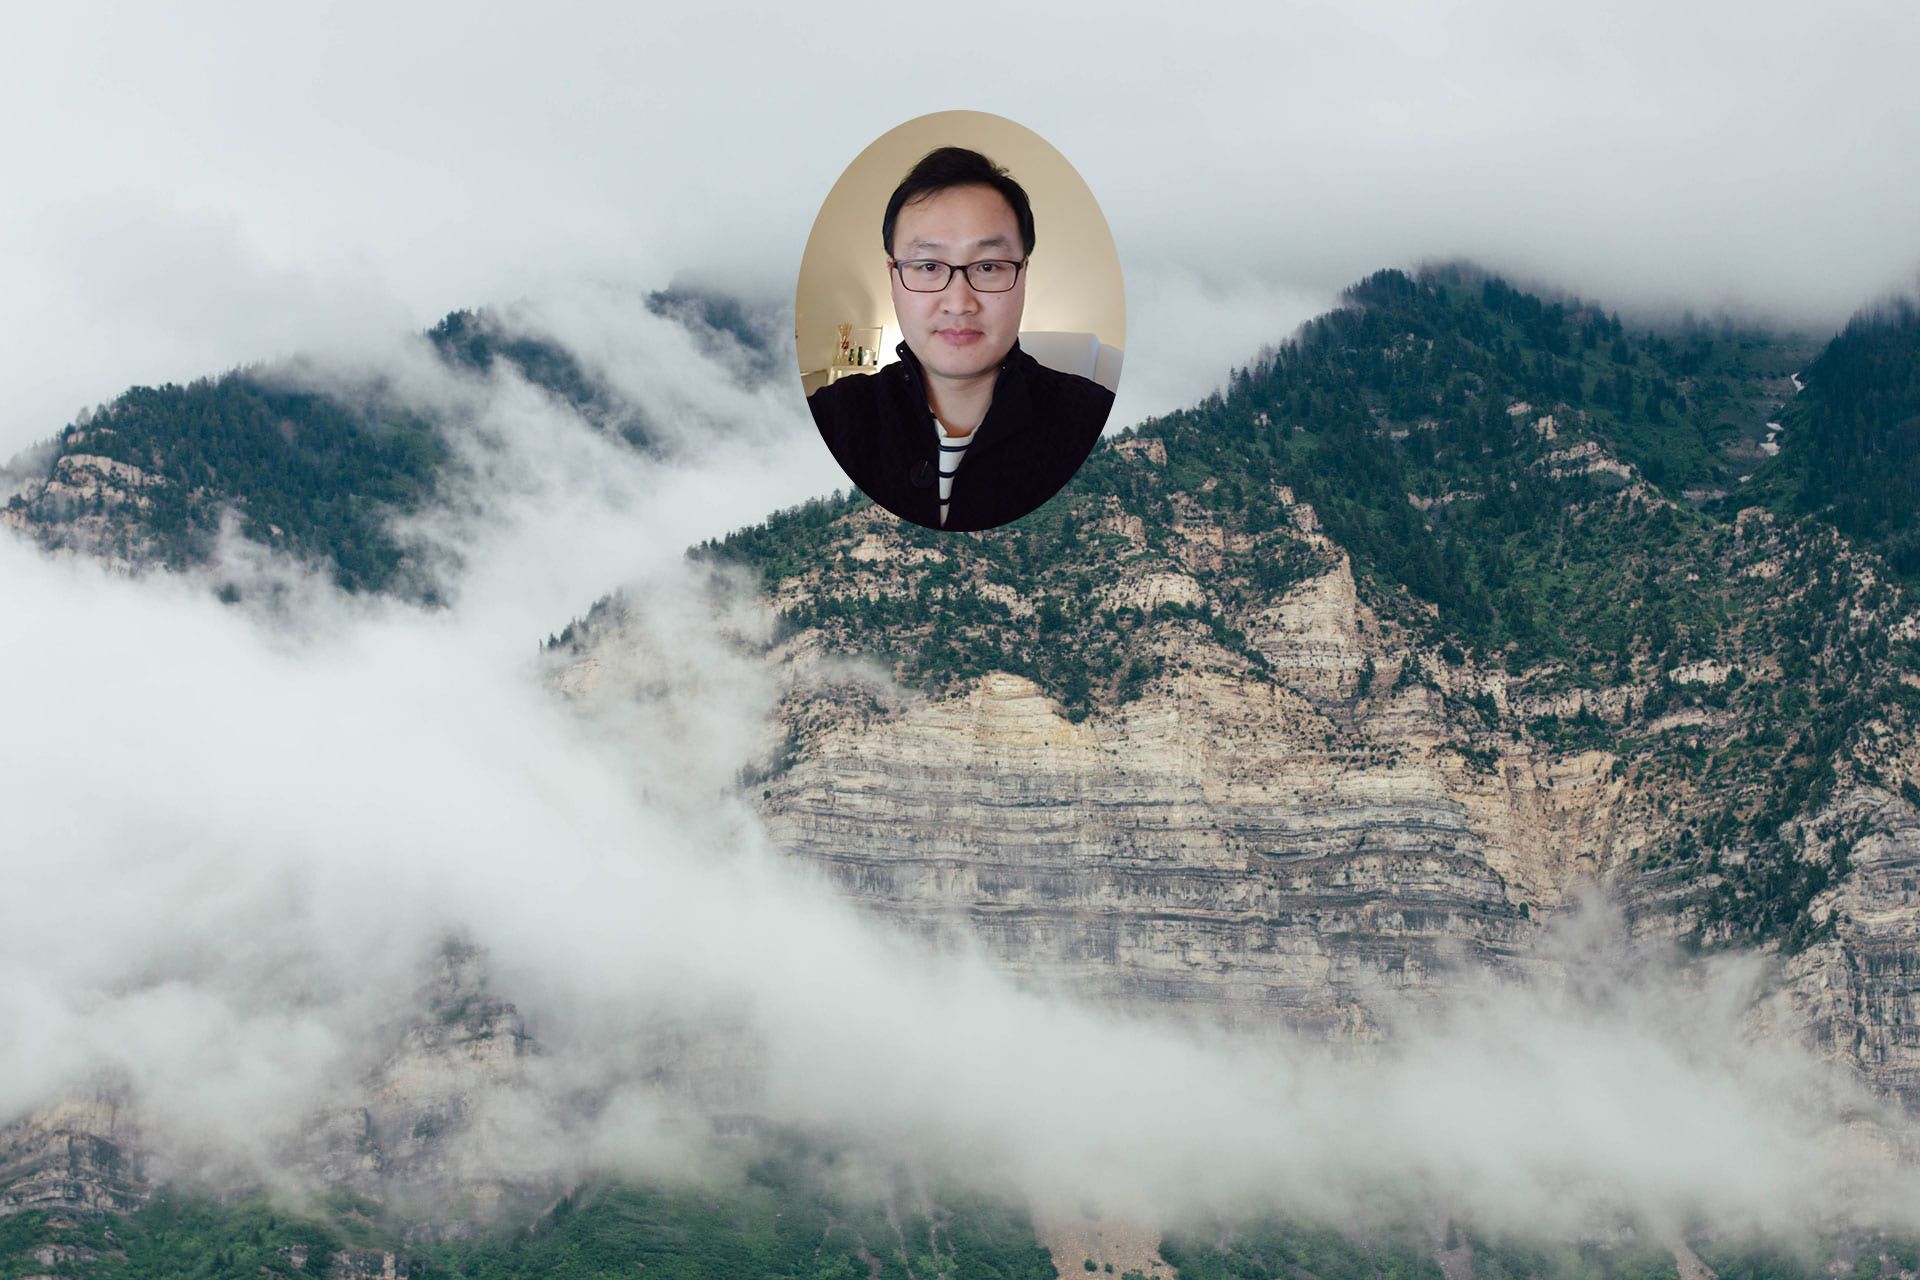
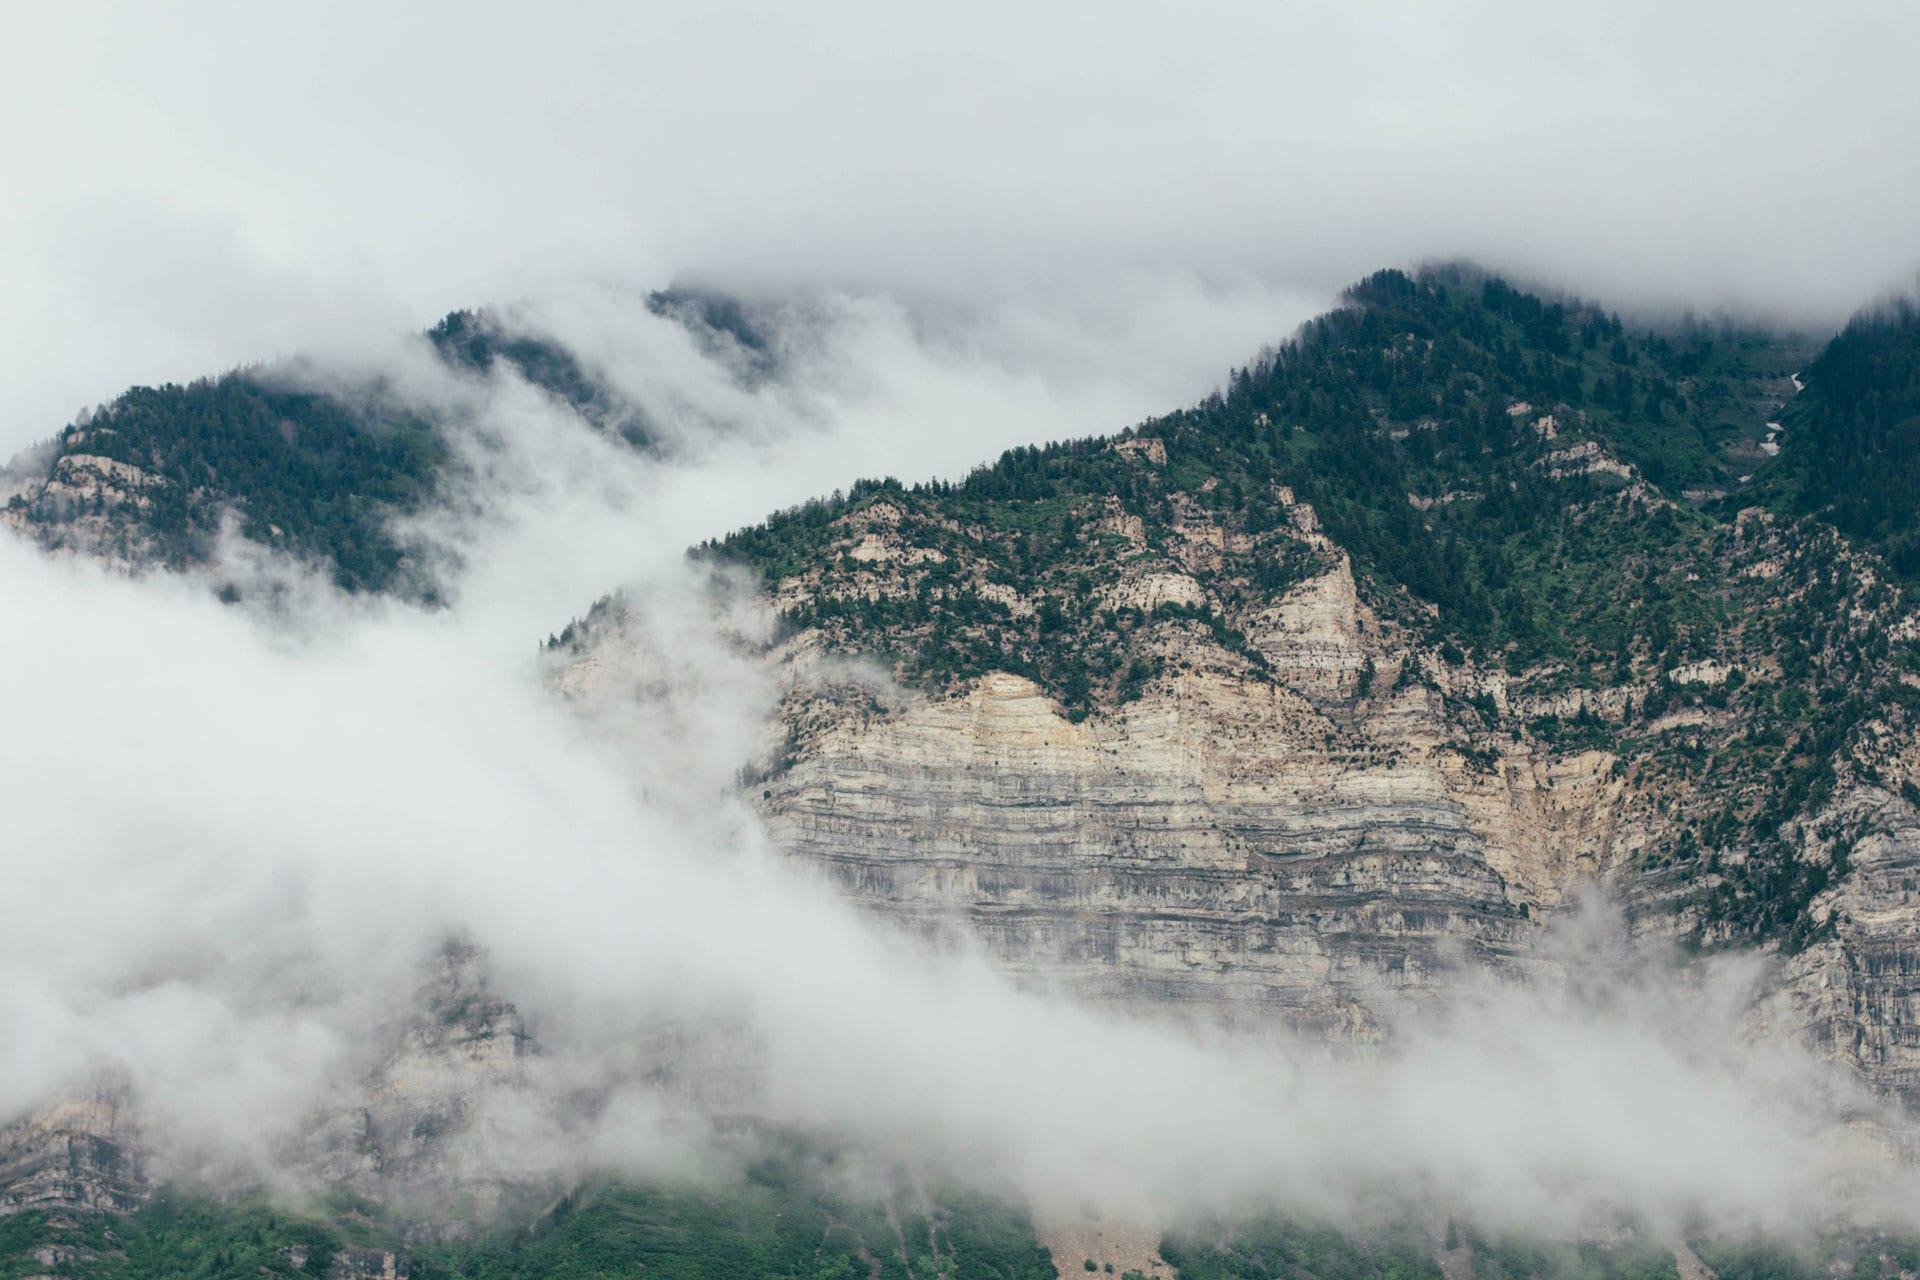
profile center

Changed region(s): [[0.4062, 0.0625, 0.5938, 0.4375]]

diff --git a/index.html b/index.html
@@ -81,6 +81,7 @@
         </nav><!-- /.site-navigation -->
     </header><!-- /#mastheaed -->
 
+    <img class="profile_oval" src="/assets/img/profile_oval.png" />
     <div id="hero" class="hero overlay">
         <div class="hero-content">
             <div class="hero-text">

diff --git a/assets/css/style.css b/assets/css/style.css
@@ -1686,3 +1686,12 @@ a.linkedin-bg:hover {
 .aboutMe{
     margin-top:50px;
 }
+
+.profile_oval{
+    width:220px;
+    height: 270px;
+    position: absolute;
+    z-index: 3;
+    right: 1150px;
+    top: 200px;
+}
